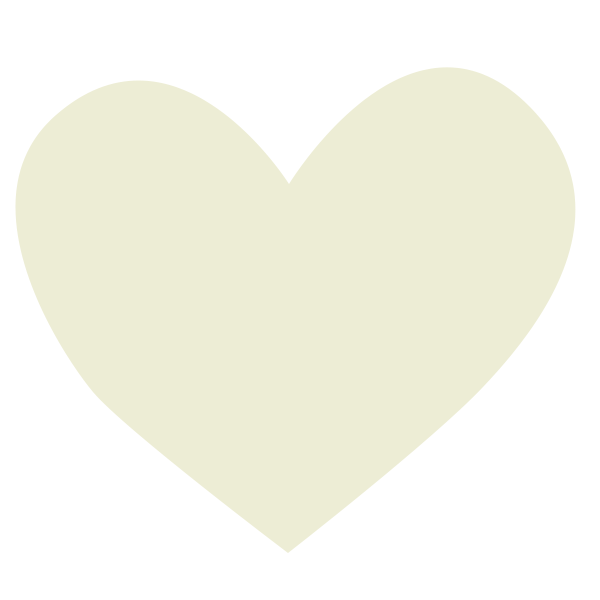
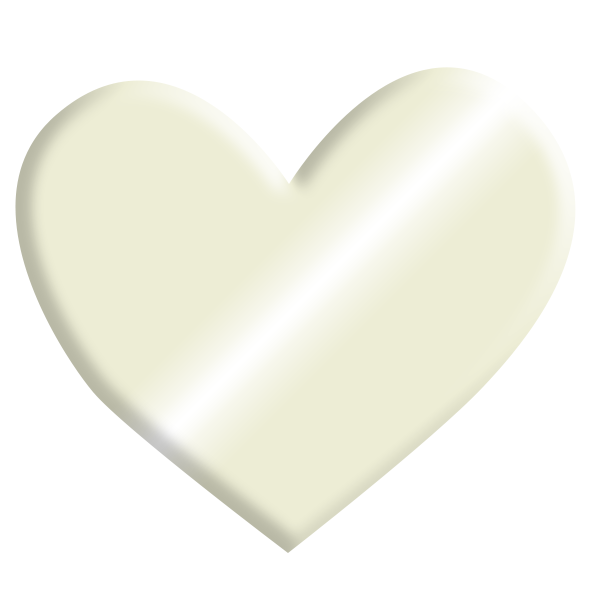
Update v.1.0.5
-updated hearts

Changed region(s): [[0.0, 0.12, 0.96, 0.93], [0.33, 0.12, 0.66, 0.3]]

diff --git a/index.html b/index.html
@@ -406,6 +406,16 @@
               <td class="tg-6ec3"></td>
               <td class="tg-6ec3">Rhian Jadey D. Rafanan</td>
             </tr>
+			 <tr>
+              <td></td>
+              <td></td>
+              <td></td>
+            </tr>
+			 <tr>
+              <td></td>
+              <td></td>
+              <td></td>
+            </tr>
           </tbody>
         </table>
       </div>
